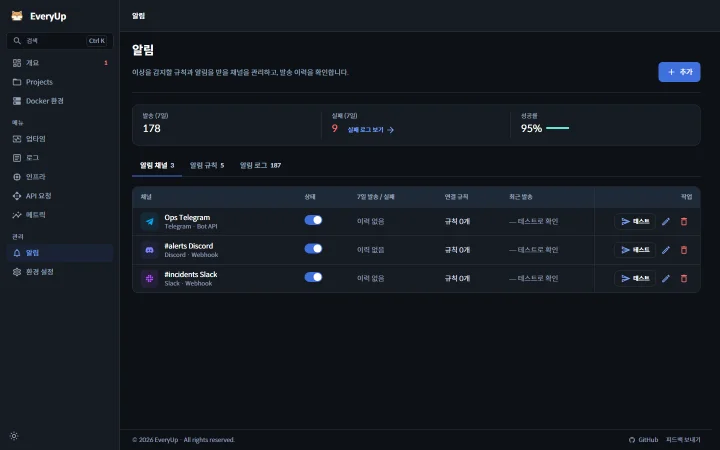
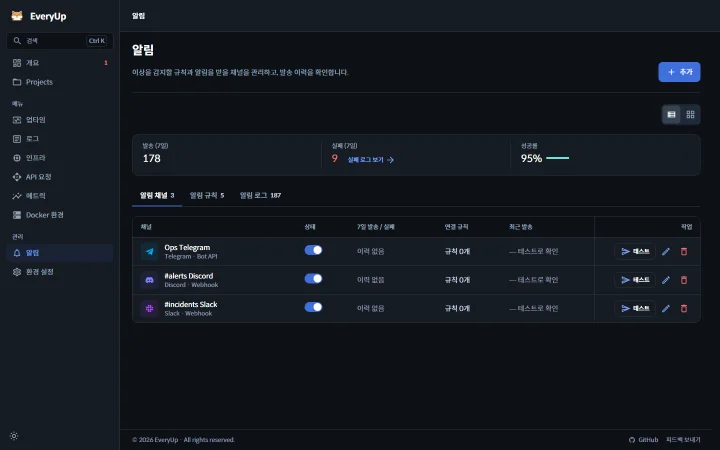
docs: capability menus show direct targets, Docker data stays in its environment
Korean and English guides now say the Uptime, Logs, Infrastructure, API
and Metrics pages show only directly configured targets, that Docker
Collector data is in its Docker environment, and that capabilities are
added to an existing environment from its setup guide.

The demo gains two healthy uptime monitors and a log stream on
payments-api so those pages are not near-empty, and the home carousel
and README screenshots are regenerated (the sidebar order changed too).

diff --git a/web/frontend/src/services/mockRouter.ts b/web/frontend/src/services/mockRouter.ts
@@ -779,6 +779,11 @@ function mockLogSummary(scenario: MockScenario): LogServiceSummary[] {
       mockLogActivity({ 0: 1, 3: 2 }, 4),
       { level: 'error', message: mockCheckoutError.message, createdAt: mockCheckoutError.createdAt },
     ),
+    summary(
+      { serviceId: 'observed_mock_payments', serviceName: 'payments-api' },
+      mockLogActivity({ 2: 1 }, 5),
+      { level: 'error', message: mockPaymentTimeout.message, createdAt: mockMsAgo(2 * 3_600_000) },
+    ),
   ];
 }
 
@@ -859,6 +864,19 @@ const mockUptimeMonitors: UptimeMonitor[] = [
     timeout: 5000, interval: 30, status: 'healthy', responseTime: 128,
     uptime: 99.98, lastCheckAt: new Date(nowAgent - 18_000).toISOString(),
   },
+  // 업타임 메뉴는 직접 등록한 모니터만 보여 준다(ADR 0007) — 데모 목록이 비어 보이지 않게 둘을 더 둔다.
+  {
+    id: 'uptime_mock_checkout', name: 'Checkout API', type: 'http', isActive: true,
+    url: 'https://checkout.example.com/healthz', method: 'GET', expectedStatus: 200,
+    timeout: 5000, interval: 30, status: 'healthy', responseTime: 214,
+    uptime: 99.91, lastCheckAt: new Date(nowAgent - 9_000).toISOString(),
+  },
+  {
+    id: 'uptime_mock_smtp', name: 'Mail relay', type: 'tcp', isActive: true,
+    url: 'smtp.example.com', port: 587, method: 'GET', expectedStatus: 200,
+    timeout: 3000, interval: 60, status: 'healthy', responseTime: 41,
+    uptime: 100, lastCheckAt: new Date(nowAgent - 32_000).toISOString(),
+  },
   {
     id: 'uptime_mock_redis', name: 'Redis TCP', type: 'tcp', isActive: false,
     url: 'cache.example.com', port: 6379, method: 'GET', expectedStatus: 200,
@@ -936,7 +954,7 @@ const mockObservedServices: ObservedService[] = [
     id: 'observed_mock_payments',
     name: 'payments-api',
     projectId: 'project_mock_production',
-    signals: ['traces'],
+    signals: ['traces', 'logs'],
     isActive: true,
     apiKeyMasked: 'evup_****a741',
     lastSeenAt: new Date(nowAgent - 15_000).toISOString(),

diff --git a/docs/guide/introduction.md b/docs/guide/introduction.md
@@ -14,8 +14,8 @@ Docker 밖의 앱과 서버는 [OpenTelemetry로 직접 연결](./monitoring-set
 | **Web** | 대시보드, 사용자, 알림 규칙·채널, 히스토리 | 대시보드 서버 |
 | **Docker Collector** | Docker 컨테이너 자동 발견, 컨테이너 상태, 로그, 호스트 메트릭 | 모니터링할 각 Docker 호스트 |
 
-![EveryUp 개요 화면. 확인이 필요한 서비스로 장애가 난 payment-worker, Docker 환경 2개·업타임 모니터 2개·직접 연결 서비스 3개·인프라 리소스 2개의 모니터링 범위, 최근 장애 이력 3건.](/images/home/slide-overview-light.webp){.only-light width=1440 height=900}
-![EveryUp 개요 화면. 확인이 필요한 서비스로 장애가 난 payment-worker, Docker 환경 2개·업타임 모니터 2개·직접 연결 서비스 3개·인프라 리소스 2개의 모니터링 범위, 최근 장애 이력 3건.](/images/home/slide-overview-dark.webp){.only-dark width=1440 height=900}
+![EveryUp 개요 화면. 확인이 필요한 서비스로 장애가 난 payment-worker, Docker 환경 2개·업타임 모니터 4개·직접 연결 서비스 3개·인프라 리소스 2개의 모니터링 범위, 최근 장애 이력 3건.](/images/home/slide-overview-light.webp){.only-light width=1440 height=900}
+![EveryUp 개요 화면. 확인이 필요한 서비스로 장애가 난 payment-worker, Docker 환경 2개·업타임 모니터 4개·직접 연결 서비스 3개·인프라 리소스 2개의 모니터링 범위, 최근 장애 이력 3건.](/images/home/slide-overview-dark.webp){.only-dark width=1440 height=900}
 
 ## 핵심 기능
 
@@ -27,7 +27,7 @@ Docker Collector는 선택한 수집 범위에 따라 동작합니다. **기본*
 | --- | --- | --- |
 | 개요 | 장애·수집 지연, 모니터링 범위, 최근 장애 이력 | 모니터링 대상 연결 |
 | 컨테이너 상태 | 자동 발견한 컨테이너의 실행 상태와 검사 결과 | Docker Collector의 업타임 수집 선택 |
-| 업타임 | 독립 모니터와 Docker Collector의 HTTP·TCP 응답 검사 | [모니터 추가](./uptime-monitors) 또는 Docker 응답 검사 설정 |
+| 업타임 | 직접 등록한 업타임 모니터의 HTTP·TCP 응답 검사 | [모니터 추가](./uptime-monitors) |
 | 인프라 | 호스트 CPU·메모리·디스크·네트워크 추이 | 인프라 수집 선택 또는 [표준 Collector 연결](./monitoring-setup#direct-otel) |
 | 로그 | 오류·경고 추이, 반복 메시지 묶기, 검색 | stdout/stderr 수집 또는 직접 OTLP 로그 전송 |
 | API 상태 | access log에서 추출한 요청 메서드·경로·상태 코드 | 앱이나 프록시의 access log 출력 |
@@ -36,8 +36,9 @@ Docker Collector는 선택한 수집 범위에 따라 동작합니다. **기본*
 | 헤더·바디 상세 수집 | 요청 진단 정보와 캡처된 바디 | [언어별 계측](./otel-instrumentation). 바디 자동 수집은 Node.js에서 선택적으로 활성화 |
 | 알림 | 규칙·채널·발송 결과 | [알림 채널과 활성 규칙 설정](./notifications) |
 
-업타임 화면은 서비스가 요청에 응답하는지를 보여줍니다. 컨테이너 실행 여부만 확인하는 검사 결과는
-Docker 환경에서 확인하세요.
+업타임·로그·인프라·API 요청·메트릭 화면은 직접 설정한 대상만 보여줍니다. Docker Collector가 수집한
+응답 검사·컨테이너 상태·로그·호스트 자원·API 요청은 해당 Docker 환경 화면에서 확인하세요.
+개요·Projects·알림은 두 경로의 대상을 함께 다룹니다.
 
 API 요청 추이는 과거 데이터가 있으면 지난주와 비교할 수 있습니다. Docker 환경에서는 배포·재시작
 이벤트도 함께 표시합니다. **지연 시간 p95**는 측정한 요청의 95%가 이 시간 안에 끝났다는 뜻입니다.

diff --git a/docs/en/guide/introduction.md b/docs/en/guide/introduction.md
@@ -15,8 +15,8 @@ Apps and servers outside Docker can [connect directly through OpenTelemetry](./m
 | **Web** | Dashboard, users, alert rules, notification channels, history | Your dashboard server |
 | **Docker Collector** | Docker discovery, container state, logs, host metrics | Each Docker host you monitor |
 
-![The EveryUp overview. payment-worker flagged as down, a monitoring scope of 2 Docker environments, 2 uptime monitors, 3 directly connected services and 2 infrastructure resources, and 3 recent incidents.](/images/home/slide-overview-light.webp){.only-light width=1440 height=900}
-![The EveryUp overview. payment-worker flagged as down, a monitoring scope of 2 Docker environments, 2 uptime monitors, 3 directly connected services and 2 infrastructure resources, and 3 recent incidents.](/images/home/slide-overview-dark.webp){.only-dark width=1440 height=900}
+![The EveryUp overview. payment-worker flagged as down, a monitoring scope of 2 Docker environments, 4 uptime monitors, 3 directly connected services and 2 infrastructure resources, and 3 recent incidents.](/images/home/slide-overview-light.webp){.only-light width=1440 height=900}
+![The EveryUp overview. payment-worker flagged as down, a monitoring scope of 2 Docker environments, 4 uptime monitors, 3 directly connected services and 2 infrastructure resources, and 3 recent incidents.](/images/home/slide-overview-dark.webp){.only-dark width=1440 height=900}
 
 ::: info
 The dashboard interface is Korean only. These docs cover setup and
@@ -33,7 +33,7 @@ reception. Configure uptime monitors and alerts separately in the dashboard.
 | --- | --- | --- |
 | Overview | Failures, delayed collection, monitoring scope, recent incidents | Connect monitoring targets |
 | Container state | Discovered containers, their running state and check results | Enable Docker Collector uptime collection |
-| Uptime | HTTP and TCP response checks from independent monitors and Docker Collectors | [Add monitors](./uptime-monitors) or configure Docker response checks |
+| Uptime | HTTP and TCP response checks from the uptime monitors you add | [Add monitors](./uptime-monitors) |
 | Infrastructure | Host CPU, memory, disk, and network trends | Enable infrastructure collection or [connect a standard Collector](./monitoring-setup#direct-otel) |
 | Logs | Error and warning trends, recurring messages, search | Collect stdout/stderr or export OTLP logs directly |
 | API status | Request method, path, and status code parsed from access logs | App or proxy access-log output |
@@ -42,8 +42,9 @@ reception. Configure uptime monitors and alerts separately in the dashboard.
 | Header and body capture | Request details and captured bodies | [Language-specific instrumentation](./otel-instrumentation). Automatic body capture is opt-in for Node.js |
 | Notifications | Rules, channels, delivery results | [Configure channels and enabled rules](./notifications) |
 
-Uptime shows whether a service responds to requests. Checks that only report whether a container
-is running appear in its Docker environment.
+The Uptime, Logs, Infrastructure, API requests, and Metrics pages show only the targets you configure
+directly. Response checks, container state, logs, host resources, and API requests collected by a Docker
+Collector appear in that Docker environment. Overview, Projects, and alerts cover both paths.
 
 Compare API request trends with last week when historical data exists. Docker environments also
 show deployment and restart events. **p95 latency** means 95% of measured requests finished within

diff --git a/docs/en/guide/uptime-monitors.md b/docs/en/guide/uptime-monitors.md
@@ -2,7 +2,8 @@
 
 Use uptime monitors to check responses from public URLs and TCP ports on a schedule. Web performs
 the checks, so the target does not need a Collector. Docker service response checks come from the
-[Docker Collector](./quickstart); you do not need to add them again as independent monitors.
+[Docker Collector](./quickstart) and appear in that **Docker 환경** (Docker environment); you do not need
+to add them again as uptime monitors.
 
 ## Add a monitor
 
@@ -27,15 +28,14 @@ services with the [Docker Collector](./quickstart) instead.
 
 ## Status and management
 
-The **업타임** (Uptime) screen combines independent uptime monitors and Docker Collector response
-checks. Each target shows its HTTP or TCP method and where the check runs. Checks that only report
-whether a container is running are excluded; view those in **Docker 환경** (Docker environments).
+The **업타임** (Uptime) screen shows only the uptime monitors you add there. Each target shows its
+HTTP or TCP method and check address. View Docker Collector response checks and container state in
+**Docker 환경** (Docker environments).
 
-Counts for **정상** (healthy), **장애** (down), and **정지·대기·지연** (paused, pending, or delayed) appear
-at the top. Use **일시정지** (Pause) on an independent monitor to stop checks and **재개** (Resume) to
-restart them. Open a target to inspect its check history (result, time, response time, message).
-**수정** (Edit) and **삭제** (Delete) manage independent monitors; Docker targets are managed in
-their environment's service screen.
+Counts for **정상** (healthy), **장애** (down), and **정지·대기** (paused or pending) appear at the top.
+Use **일시정지** (Pause) to stop checks and **재개** (Resume) to restart them. Open a target to inspect
+its check history (result, time, response time, message), and use **수정** (Edit) or **삭제** (Delete)
+on its detail screen.
 
 ## Getting outage alerts
 

diff --git a/docs/en/guide/monitoring-setup.md b/docs/en/guide/monitoring-setup.md
@@ -37,14 +37,16 @@ latest installation command.
 
 ## Adding capabilities to an existing environment
 
-The connect buttons on the **로그** (Logs), **API 요청** (API requests), **메트릭** (Metrics), and **인프라**
-(Infrastructure) pages, such as **로그 연결** (Connect logs), let you reuse a registered target or
-connect a new one. Adding a capability to an existing Docker environment
-preserves its ID, key, Project assignment, and collection history. EveryUp issues a new apply
-command; run it on the target server to enable the capability across that Docker environment.
+Open the environment on the **Docker 환경** (Docker environments) screen and use the buttons in its
+monitoring setup guide, such as **로그 추가** (Add logs) or **메트릭 추가** (Add metrics), to add a capability
+that is not selected yet. The environment keeps its ID, key, Project assignment, and collection history.
+EveryUp issues a new apply command; run it on the target server to enable the capability across that
+Docker environment.
 
-Each connection screen lets you pick an existing target or start a Docker installation. Choosing
-a configured target shows its receipt history before opening the corresponding data page.
+The connect buttons on the **로그** (Logs), **API 요청** (API requests), **메트릭** (Metrics), and **인프라**
+(Infrastructure) pages, such as **로그 연결** (Connect logs), handle direct connections only. Reuse a
+registered direct target or connect a new one. Choosing a configured target shows its receipt history
+before opening the corresponding data page.
 
 ## Connecting OpenTelemetry directly {#direct-otel}
 

diff --git a/docs/guide/monitoring-setup.md b/docs/guide/monitoring-setup.md
@@ -35,13 +35,13 @@ Docker 밖의 앱과 서버는 [OpenTelemetry로 직접 연결](#direct-otel)하
 
 ## 기존 환경에 기능 추가
 
-로그·API 요청·메트릭·인프라 화면의 연결 버튼(**로그 연결**, **API 연결** 등)에서는 등록된 대상을
-이어 쓰거나 새 대상을 연결할 수 있습니다. 기존 Docker 환경에 기능을 추가하면 ID·키·Project·수집 이력은
-유지되고, 새 적용 명령이 발급됩니다. 이 명령을 해당 서버에서 실행하면 선택한 기능이
-Docker 환경 전체에 적용됩니다.
+**Docker 환경** 화면에서 환경을 열고, 모니터링 설정 가이드의 **로그 추가**·**메트릭 추가** 같은 버튼으로
+아직 선택하지 않은 기능을 추가하세요. ID·키·Project·수집 이력은 유지되고, 새 적용 명령이 발급됩니다.
+이 명령을 해당 서버에서 실행하면 선택한 기능이 Docker 환경 전체에 적용됩니다.
 
-각 연결 화면에서는 기존 대상을 고르거나 Docker 설치를 시작합니다. 이미 설정된
-대상을 고르면 수신 기록을 확인한 뒤 해당 데이터 화면으로 이동합니다.
+로그·API 요청·메트릭·인프라 화면의 연결 버튼(**로그 연결**, **API 연결** 등)은 직접 연결만 다룹니다.
+등록된 직접 연결 대상을 이어 쓰거나 새 대상을 연결할 수 있습니다. 이미 설정된 대상을 고르면 수신 기록을
+확인한 뒤 해당 데이터 화면으로 이동합니다.
 
 ## OpenTelemetry로 직접 연결 {#direct-otel}
 

diff --git a/docs/index.md b/docs/index.md
@@ -20,11 +20,11 @@ carousel:
   - title: 개요
     caption: 지금 확인이 필요한 서비스와 모니터링 범위, 최근 장애 이력을 한 화면에서 봅니다.
     image: overview
-    alt: EveryUp 개요 화면. 확인이 필요한 서비스로 장애가 난 payment-worker, Docker 환경 2개·업타임 모니터 2개·직접 연결 서비스 3개·인프라 리소스 2개의 모니터링 범위, 최근 장애 이력 3건.
+    alt: EveryUp 개요 화면. 확인이 필요한 서비스로 장애가 난 payment-worker, Docker 환경 2개·업타임 모니터 4개·직접 연결 서비스 3개·인프라 리소스 2개의 모니터링 범위, 최근 장애 이력 3건.
   - title: 업타임
-    caption: 독립 업타임 모니터와 Docker Collector의 HTTP·TCP 응답 검사 결과를 함께 확인합니다.
+    caption: 공개 URL과 TCP 포트를 업타임 모니터로 확인합니다. Docker 서비스의 검사는 Docker 환경에서 봅니다.
     image: uptime
-    alt: 업타임 화면. 정상 3, 장애 1, 일시정지·대기 1 요약과 모니터링 대상 5개 카드.
+    alt: 업타임 화면. 정상 3, 장애 0, 정지·대기 1 요약과 HTTP·TCP 모니터 4개 목록.
   - title: 로그
     caption: 서비스별 오류·경고 추이와 자주 반복되는 오류를 함께 봅니다.
     image: logs

diff --git a/docs/en/index.md b/docs/en/index.md
@@ -20,11 +20,11 @@ carousel:
   - title: Overview
     caption: The services that need attention, your monitoring scope, and recent incidents on one screen.
     image: overview
-    alt: The EveryUp overview. payment-worker flagged as down, a monitoring scope of 2 Docker environments, 2 uptime monitors, 3 directly connected services and 2 infrastructure resources, and 3 recent incidents.
+    alt: The EveryUp overview. payment-worker flagged as down, a monitoring scope of 2 Docker environments, 4 uptime monitors, 3 directly connected services and 2 infrastructure resources, and 3 recent incidents.
   - title: Uptime
-    caption: HTTP and TCP response checks from independent uptime monitors and Docker Collectors in one view.
+    caption: Check public URLs and TCP ports with uptime monitors. Docker service checks stay in their Docker environment.
     image: uptime
-    alt: The uptime screen. Summary of 3 healthy, 1 down, 1 paused or pending, and cards for 5 monitored targets.
+    alt: The uptime screen. Summary of 3 healthy, 0 down, 1 paused or pending, and a list of 4 HTTP and TCP monitors.
   - title: Logs
     caption: Error and warning trends per service, plus the errors that keep repeating.
     image: logs
